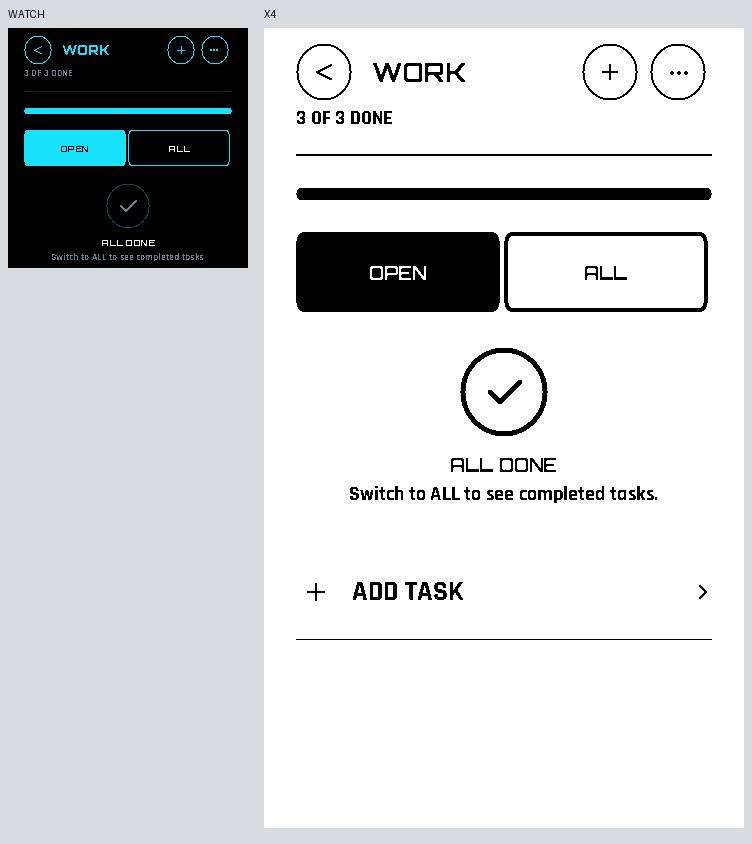
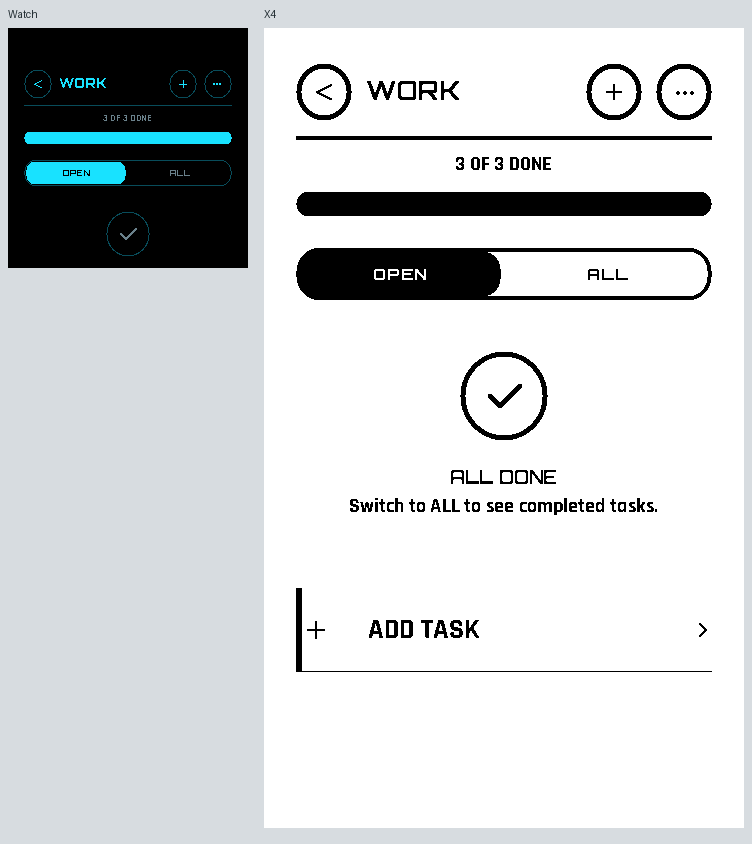
Use mockup controls and verify both tab states through the real Lists presenter

diff --git a/Apps/ListsScene.c b/Apps/ListsScene.c
@@ -23,6 +23,7 @@ static risc_scene_node_v1 *node(lists_ui *u,unsigned kind,const char *label,cons
 static risc_component_detail_v1 *detail(lists_ui *u,risc_scene_node_v1 *n){return &u->document.details[n->id-1];}
 static void header(lists_ui *u,const char *title,const char *sub,bool back){copy(u->document.routes[0].title,RISC_SCENE_LABEL,title);copy(u->document.subtitle,RISC_SCENE_TEXT,sub);u->document.routes[0].back_action=back?LA_BACK:0;}
 static risc_scene_node_v1 *button(lists_ui *u,const char *label,unsigned action,unsigned flags){risc_scene_node_v1 *n=node(u,RISC_SCENE_ACTION,label,"",action,0);n->flags=flags;return n;}
+static void chip(lists_ui *u,const char *label,unsigned action,unsigned ref){node(u,RISC_COMPONENT_CHIP,label,"",action,ref);}
 static void bounds(risc_scene_node_v1 *n,int value,int maximum){n->value=value;n->minimum=0;n->maximum=maximum;n->step=1;}
 static risc_scene_node_v1 *stepper(lists_ui *u,const char *label,const char *value,unsigned action,int selected,int maximum){risc_scene_node_v1 *n=node(u,RISC_COMPONENT_STEPPER,label,value,action,0);bounds(n,selected,maximum);return n;}
 static void segments(lists_ui *u,const char *choices,unsigned action,unsigned selected,unsigned count){risc_scene_node_v1 *n=node(u,RISC_COMPONENT_SEGMENTS,"","",action,0);bounds(n,(int)selected,(int)count-1);copy(detail(u,n)->choices,sizeof(detail(u,n)->choices),choices);}
@@ -56,11 +57,11 @@ void lists_ui_declare(lists_ui *u){
     case LISTS_VIEW:{header(u,view_name(u),"",true);risc_scene_node_v1 *n;
         if(l){n=node(u,RISC_COMPONENT_HEADER_ACTION,"OPTIONS","",LA_OPTIONS,0);detail(u,n)->symbol=RISC_SYMBOL_MORE;}
         n=node(u,RISC_COMPONENT_HEADER_ACTION,"ADD TASK","",LA_NEW_TASK,0);detail(u,n)->symbol=RISC_SYMBOL_PLUS;
-        unsigned done,total;counts(u,u->view,&done,&total);snprintf(d->subtitle,sizeof(d->subtitle),"%u OF %u DONE",done,total);progress(u,"",u->view);segments(u,"OPEN|ALL",LA_FILTER,u->filter,2);
+        unsigned done,total;counts(u,u->view,&done,&total);progress(u,"",u->view);segments(u,"OPEN|ALL",LA_FILTER,u->filter,2);
         unsigned order[LISTS_MAX_TASKS],count=0;
         for(unsigned i=0;i<u->data.task_count;i++)if(in_view(u,&u->data.tasks[i],u->view)&&(!u->data.tasks[i].done||u->filter||(l&&l->show_completed))){unsigned at=count++;while(at&&task_before(&u->data.tasks[i],&u->data.tasks[order[at-1]])){order[at]=order[at-1];--at;}order[at]=i;}
         for(unsigned i=0;i<count;i++){lists_task *item=&u->data.tasks[order[i]];char date[40],sub[72];due_text(u,item,date,sizeof(date));lists_list *owner=lists_find_list(&u->data,item->list_id);snprintf(sub,sizeof(sub),"%s%s%s%s%s",l?"":owner->name,l?"":" / ",date,item->repeat?" / ":"",item->repeat?repeats[item->repeat]:"");n=node(u,RISC_COMPONENT_CHECK_ROW,item->name,sub,LA_DONE,item->id);bounds(n,item->done,1);risc_component_detail_v1 *a=detail(u,n);a->secondary_action=LA_TASK;
-            if(lists_overdue(item,u->today,u->minute)){copy(a->badge,sizeof(a->badge),"OVERDUE");a->tone=RISC_TONE_WARNING;}else if(item->priority==2&&!item->done){copy(a->badge,sizeof(a->badge),"HIGH");a->tone=RISC_TONE_WARNING;}}
+            if(lists_overdue(item,u->today,u->minute)){copy(a->badge,sizeof(a->badge),"OVERDUE");a->tone=RISC_TONE_WARNING;}else if(item->priority==2&&!item->done){copy(a->badge,sizeof(a->badge),"HIGH");a->tone=RISC_TONE_ACCENT;}}
         if(!count)node(u,RISC_COMPONENT_EMPTY,total?"ALL DONE":"NOTHING HERE YET",total?"Switch to ALL to see completed tasks.":"Tap + to add the first task.",0,0);
         n=node(u,RISC_COMPONENT_ROW,"ADD TASK","",LA_NEW_TASK,0);detail(u,n)->symbol=RISC_SYMBOL_PLUS;break;}
     case LISTS_TASK:{header(u,t->name,"TASK",true);risc_scene_node_v1 *n=node(u,RISC_COMPONENT_CHECK_ROW,"DONE","",LA_DONE,t->id);bounds(n,t->done,1);
@@ -75,15 +76,15 @@ void lists_ui_declare(lists_ui *u){
         stepper(u,"REPEAT",repeats[t->repeat],LA_REPEAT,t->repeat,2);
         node(u,RISC_SCENE_TEXT_NODE,"REMINDERS","Shown while Lists is open; missed reminders appear on return.",0,0);
         n=node(u,RISC_COMPONENT_ROW,"DELETE TASK","",LA_DELETE_TASK,0);detail(u,n)->symbol=RISC_SYMBOL_DELETE;detail(u,n)->tone=RISC_TONE_DANGER;break;}
-    case LISTS_ADD_TASK:{header(u,"ADD TASK",view_name(u),true);unsigned set=suggestion_set(u);for(unsigned i=0;i<4;i++)button(u,suggestions[set][i],LA_SUGGEST_TASK,0),u->refs[d->node_count-1]=i;button(u,"CUSTOM...",LA_CUSTOM_TASK,RISC_SCENE_PRIMARY);break;}
+    case LISTS_ADD_TASK:{header(u,"ADD TASK",view_name(u),true);unsigned set=suggestion_set(u);for(unsigned i=0;i<4;i++)chip(u,suggestions[set][i],LA_SUGGEST_TASK,i);chip(u,"CUSTOM...",LA_CUSTOM_TASK,0);node(u,RISC_SCENE_TEXT_NODE,"","Pick a suggestion or type your own. Set a date and reminder afterwards.",0,0);break;}
     case LISTS_ADD_LIST:{header(u,"NEW LIST","PICK A SHAPE, THEN A NAME",true);risc_scene_node_v1 *n=node(u,RISC_COMPONENT_MARKERS,"SHAPE","",LA_MARKER,0);bounds(n,(int)u->marker,5);
-        for(unsigned i=0;i<sizeof(names)/sizeof(names[0]);i++){bool found=false;for(unsigned j=0;j<u->data.list_count;j++)if(!strcmp(names[i],u->data.lists[j].name))found=true;if(!found){button(u,names[i],LA_SUGGEST_LIST,0);u->refs[d->node_count-1]=i;}}
-        button(u,"CUSTOM...",LA_CUSTOM_LIST,RISC_SCENE_PRIMARY);break;}
+        for(unsigned i=0;i<sizeof(names)/sizeof(names[0]);i++){bool found=false;for(unsigned j=0;j<u->data.list_count;j++)if(!strcmp(names[i],u->data.lists[j].name))found=true;if(!found)chip(u,names[i],LA_SUGGEST_LIST,i);}
+        chip(u,"CUSTOM...",LA_CUSTOM_LIST,0);break;}
     case LISTS_OPTIONS:{if(!l){u->page=LISTS_HOME;lists_ui_declare(u);return;}header(u,l->name,"LIST OPTIONS",true);node(u,RISC_COMPONENT_ROW,"RENAME","",LA_RENAME_LIST,0);
         risc_scene_node_v1 *n=node(u,RISC_COMPONENT_SWITCH,"SHOW COMPLETED","",LA_SHOW_DONE,0);bounds(n,l->show_completed,1);button(u,"CLEAR COMPLETED",LA_CLEAR_DONE,0);button(u,"DELETE LIST",LA_DELETE_LIST,RISC_SCENE_DESTRUCTIVE);break;}
     case LISTS_NAME_EDIT:{header(u,"NAME",u->edit_kind==LA_CUSTOM_LIST||u->edit_kind==LA_RENAME_LIST?"LIST NAME":"TASK NAME",true);risc_scene_node_v1 *n=node(u,RISC_SCENE_KEYBOARD_NODE,"NAME",u->draft,LA_KEY,0);bounds(n,(int)u->key_layer,3);n->target=LISTS_NAME-1;break;}
     case LISTS_TIME:{header(u,"SET TIME",t->name,true);risc_scene_node_v1 *n=node(u,RISC_COMPONENT_TIME_PICKER,"TIME","",LA_TIME_VALUE,0);bounds(n,(int)u->time_value,1439);button(u,"SET TIME",LA_SET_TIME,RISC_SCENE_PRIMARY);button(u,"NO TIME",LA_NO_TIME,0);break;}
-    case LISTS_CONFIRM:{header(u,"ARE YOU SURE?","",true);d->flags=RISC_COMPONENTS_CONFIRM;d->cancel_action=LA_KEEP;const char *title=u->confirm_kind==LA_DELETE_TASK?"DELETE TASK?":u->confirm_kind==LA_DELETE_LIST?"DELETE LIST?":"CLEAR COMPLETED?";
+    case LISTS_CONFIRM:{header(u,"CONFIRM","",true);d->flags=RISC_COMPONENTS_CONFIRM;d->cancel_action=LA_KEEP;const char *title=u->confirm_kind==LA_DELETE_TASK?"DELETE TASK?":u->confirm_kind==LA_DELETE_LIST?"DELETE LIST?":"CLEAR COMPLETED?";
         node(u,RISC_SCENE_TEXT_NODE,title,u->confirm_kind==LA_DELETE_LIST?"The list and all its tasks will be removed.":"This removes the selected saved items.",0,0);button(u,"KEEP",LA_KEEP,0);button(u,"DELETE",LA_CONFIRM,RISC_SCENE_DESTRUCTIVE);break;}
     case LISTS_ALERT:{lists_task *a=lists_find_task(&u->data,u->alert);if(!a){u->page=u->parent;lists_ui_declare(u);return;}header(u,"REMINDER","",true);d->flags=RISC_COMPONENTS_ALERT;d->cancel_action=LA_DISMISS;char date[40];due_text(u,a,date,sizeof(date));node(u,RISC_SCENE_TEXT_NODE,a->name,date,0,0);button(u,"DONE",LA_ALERT_DONE,RISC_SCENE_PRIMARY);button(u,"+10 MIN",LA_SNOOZE,0);button(u,"DISMISS",LA_DISMISS,0);break;}
     default:u->page=LISTS_HOME;lists_ui_declare(u);break;

diff --git a/test/lists/render_test.c b/test/lists/render_test.c
@@ -8,6 +8,7 @@
 static lists_ui ui;
 static const risc_scene_components_api_v1 *components;
 static void update_ui(void){lists_ui_declare(&ui);assert(components->update(NULL,session,&ui.document)==0);}
+static unsigned task_rows(void){unsigned count=0;for(unsigned i=0;i<ui.document.node_count;i++)count+=ui.document.nodes[i].kind==RISC_COMPONENT_CHECK_ROW;return count;}
 static void fixture(void){
  lists_ui_init(&ui);ui.today=lists_day(2026,10,10);ui.minute=660;uint32_t work,grocery,home,id;
  assert(!lists_add_list(&ui.data,"GROCERIES",0,&grocery));assert(!lists_add_list(&ui.data,"WORK",1,&work));assert(!lists_add_list(&ui.data,"HOME",2,&home));
@@ -33,18 +34,30 @@ int main(int argc,char **argv){
  startup();assert(api->close(NULL,session)==0);components=risc_scene_components_get_v1(api);assert(components);fixture();lists_ui_declare(&ui);
  expected_intent=RISC_DISPLAY_PRESENT_LOW_LATENCY;assert(!components->open(NULL,&ui.document,NULL,&session));frame(argv[2],"home");
  ui.page=LISTS_VIEW;update_ui();frame(argv[2],"list");
- unsigned scale=w==800?2:1,first_y=(64+34+(scale==2?48:44)+(scale==2?24:22))*scale;
+ unsigned scale=w==800?2:1,header=scale==2?56:78,first_y=(header+46+38+(scale==2?21:20))*scale;
  touch_tap(25*scale,first_y);risc_scene_event_v1 e;assert(tick(&e)==RISC_SCENE_OK&&e.action==LA_DONE&&e.kind==RISC_SCENE_VALUE_EVENT);assert(lists_ui_event(&ui,&e));update_ui();
+ /* OPEN/ALL swaps this list in place while a refresh is outstanding. */
+ unsigned open_rows=task_rows();allow_complete=false;begin_frame();
+ touch_tap(172*scale,(header+46+21)*scale);assert(tick(&e)==RISC_SCENE_OK&&e.action==LA_FILTER&&e.value==1);assert(!lists_ui_event(&ui,&e));update_ui();assert(task_rows()==open_rows+1&&ui.page==LISTS_VIEW);
+ allow_complete=true;ui.notice[0]=0;update_ui();frame(argv[2],"list-all");
+ touch_tap(68*scale,(header+46+21)*scale);assert(tick(&e)==RISC_SCENE_OK&&e.action==LA_FILTER&&e.value==0);assert(!lists_ui_event(&ui,&e));update_ui();assert(task_rows()==open_rows);
  /* Details target remains distinct after the completed row leaves OPEN. */
  touch_tap(90*scale,first_y);assert(tick(&e)==RISC_SCENE_OK&&e.action==LA_TASK);assert(!lists_ui_event(&ui,&e)&&ui.page==LISTS_TASK);update_ui();frame(argv[2],"task");
  ui.page=LISTS_TIME;ui.time_value=905;update_ui();frame(argv[2],"time");
  ui.page=LISTS_NAME_EDIT;ui.edit_kind=LA_RENAME_TASK;strcpy(ui.draft,"WEEKLY REPORT");update_ui();frame(argv[2],"keyboard");
  ui.page=LISTS_CONFIRM;ui.confirm_kind=LA_DELETE_TASK;update_ui();frame(argv[2],"confirm");
  risc_scene_navigation_v1 focus={.struct_size=sizeof(focus)};uint32_t flags;assert(!api->snapshot(NULL,session,&focus,&flags));assert(focus.focus[0]&&ui.document.nodes[focus.focus[0]-1].action==LA_KEEP);
+ unsigned middle=scale==2?200:120;
+ touch_tap(120*scale,middle*scale);assert(tick(&e)==RISC_SCENE_IDLE);
+ touch_tap(75*scale,(middle+44)*scale);assert(tick(&e)==RISC_SCENE_OK&&e.action==LA_KEEP);
+ touch_tap(5*scale,5*scale);assert(tick(&e)==RISC_SCENE_OK&&e.action==LA_KEEP);
  ui.page=LISTS_ALERT;ui.alert=ui.task;update_ui();frame(argv[2],"alert");
+ ui.page=LISTS_OPTIONS;update_ui();frame(argv[2],"options");
+ ui.page=LISTS_ADD_TASK;update_ui();frame(argv[2],"new-task");
  ui.page=LISTS_ADD_LIST;update_ui();frame(argv[2],"new-list");
+ touch_tap(48*scale,((scale==2?60:84)+73)*scale);assert(tick(&e)==RISC_SCENE_OK&&e.action==LA_SUGGEST_LIST);
  /* Slow refresh never blocks a fresh control target. */
- allow_complete=false;update_ui();begin_frame();touch_tap(40*scale,(64+20)*scale);assert(tick(&e)==RISC_SCENE_OK&&e.action==LA_MARKER);assert(!lists_ui_event(&ui,&e));update_ui();
+ allow_complete=false;update_ui();begin_frame();touch_tap(60*scale,((scale==2?60:84)+25)*scale);assert(tick(&e)==RISC_SCENE_OK&&e.action==LA_MARKER&&e.value==1);assert(!lists_ui_event(&ui,&e));update_ui();
  /* Invalid component documents are rejected without losing the prior route. */
  risc_components_document_v1 bad=ui.document;bad.revision++;bad.nodes[0].maximum=7;assert(components->update(NULL,session,&bad)==RISC_SCENE_INVALID);
  allow_complete=true;settle();

diff --git a/scripts/render_lists_previews.py b/scripts/render_lists_previews.py
@@ -1,0 +1,42 @@
+#!/usr/bin/env python3
+"""Make review sheets from the actual C presenter's PPM captures (requires Pillow)."""
+import argparse
+from pathlib import Path
+from PIL import Image, ImageDraw
+
+def render(frames, output):
+    output.mkdir(parents=True, exist_ok=True)
+    names = ['home', 'list', 'task', 'time', 'keyboard', 'confirm', 'alert', 'new-list']
+    for profile, name, height in [('watch', 'watch', 240), ('paper', 'x4', 400)]:
+        sheet = Image.new('RGB', (1056, 2 * (height + 28) + 32), '#d7dce0')
+        draw = ImageDraw.Draw(sheet)
+        for index, screen in enumerate(names):
+            x, y = 16 + index % 4 * 260, 16 + index // 4 * (height + 28)
+            draw.text((x, y), screen.upper(), fill='#202b30')
+            frame = Image.open(frames / f'{profile}-{screen}.ppm')
+            sheet.paste(frame.resize((240, height), Image.Resampling.NEAREST), (x, y + 20))
+        sheet.save(output / f'{name}.png', optimize=True)
+    sheet = Image.new('RGB', (752, 844), '#d7dce0')
+    draw = ImageDraw.Draw(sheet)
+    for profile, x, title in [('watch', 8, 'Watch'), ('paper', 264, 'X4')]:
+        draw.text((x, 8), title, fill='#202b30')
+        sheet.paste(Image.open(frames / f'{profile}-completed.ppm'), (x, 28))
+    sheet.save(output / 'completed.png', optimize=True)
+    sheet = Image.new('RGB', (1024, 444), '#d7dce0')
+    draw = ImageDraw.Draw(sheet)
+    for index, (profile, screen, title) in enumerate([
+        ('watch', 'list', 'Watch / OPEN'), ('watch', 'list-all', 'Watch / ALL'),
+        ('paper', 'list', 'X4 / OPEN'), ('paper', 'list-all', 'X4 / ALL'),
+    ]):
+        draw.text((16 + index * 252, 8), title, fill='#202b30')
+        frame = Image.open(frames / f'{profile}-{screen}.ppm')
+        height = 240 if profile == 'watch' else 400
+        sheet.paste(frame.resize((240, height), Image.Resampling.NEAREST), (16 + index * 252, 28))
+    sheet.save(output / 'tabs.png', optimize=True)
+
+if __name__ == '__main__':
+    parser = argparse.ArgumentParser(description=__doc__)
+    parser.add_argument('--frames', type=Path, required=True)
+    parser.add_argument('--output', type=Path, default=Path(__file__).resolve().parents[1] / 'docs/lists')
+    args = parser.parse_args()
+    render(args.frames, args.output)

diff --git a/scripts/test_lists_scene.py b/scripts/test_lists_scene.py
@@ -2,11 +2,26 @@
 import argparse,importlib.util,os,subprocess,tempfile
 from pathlib import Path
 ROOT=Path(__file__).resolve().parents[1]
+def verify_tabs(path,scale,selected):
+ # Mockup contract: a continuous outer rail; only the inset selected segment
+ # is filled. An unselected tab must not have its own button outline.
+ header,dimensions,maximum,pixels=path.read_bytes().split(b'\n',3)
+ width,height=map(int,dimensions.split());assert header==b'P6' and maximum==b'255'
+ top=(56 if scale==2 else 78)+46+8
+ bg=b'\xff'*3 if scale==2 else b'\0'*3
+ def pixel(x,y):
+  at=3*(y*scale*width+x*scale);return pixels[at:at+3]
+ assert pixel(120,top)!=bg, 'Tabs need one continuous outer rail'
+ assert pixel(119,top+13)==bg, 'Tab selection needs an inset gap'
+ for tab,x in enumerate([68,172]):
+  assert (pixel(x,top+4)!=bg)==(tab==selected), 'Only the selected tab is filled'
+ assert pixel(220 if selected==0 else 19,top+13)==bg, 'Inactive tab is not a separate outlined button'
+
 def verify_completed(path,scale):
  # Reference empty state: 44 logical px circle around the completion check.
  header,dimensions,maximum,pixels=path.read_bytes().split(b'\n',3)
  width,height=map(int,dimensions.split());assert header==b'P6' and maximum==b'255'
- cx=120*scale;cy=(64+34+(48 if scale==2 else 44)+36)*scale
+ cx=120*scale;cy=((56 if scale==2 else 78)+46+38+44)*scale
  bg=b'\xff'*3 if scale==2 else b'\0'*3
  def pixel(x,y):
   assert 0<=x<width and 0<=y<height
@@ -34,5 +49,7 @@ def run(runtime,system,output=None):
    for profile,scale in [('watch',1),('paper',2)]:
     subprocess.run([str(tmp/'render'),profile,str(output)],check=True)
     verify_completed(output/(profile+'-completed.ppm'),scale)
+    verify_tabs(output/(profile+'-list.ppm'),scale,0)
+    verify_tabs(output/(profile+'-list-all.ppm'),scale,1)
 if __name__=='__main__':
  p=argparse.ArgumentParser();p.add_argument('--runtime',type=Path,required=True);p.add_argument('--system-apps',type=Path,required=True);p.add_argument('--frames',type=Path);a=p.parse_args();run(a.runtime.resolve(),a.system_apps.resolve(),a.frames)

diff --git a/docs/LISTS_SCENE.md b/docs/LISTS_SCENE.md
@@ -9,12 +9,34 @@ resident-shell checkpoints. The same compiled `lists.elf` serves both products.
 ![Watch screens](lists/watch.png)
 ![X4 screens](lists/x4.png)
 ![Completed state on Watch and X4](lists/completed.png)
+![OPEN and ALL tabs on both profiles](lists/tabs.png)
 
 These images are generated by the actual C presenter with fixture data, in this
 order: Home, list, task, time, keyboard, confirmation, reminder, new list. Fixture
 data is never seeded into the installed application. The additional completed
 capture verifies the mockup's 44px circle and 20px check. Confirmation/reminder
-copy uses explanatory text instead of the completed-state component.
+copy uses explanatory text instead of the completed-state component. The
+separate tab sheet shows both selections, including a completed task in ALL.
+The fixture also captures list options and task suggestions.
+
+The renderer follows the attached mockup
+`Lists (To-Do) — NOVA-7 watch + e-ink(1).html` for the control hierarchy:
+
+| Mockup element | Shared component |
+| --- | --- |
+| OPEN / ALL and priority tabs | Single rounded rail with inset selected segment and 8px labels |
+| List, date, reminder and repeat selectors | Inline label, value and minus/plus stepper |
+| Suggested names | Wrapping, content-sized chips |
+| List shapes | One row of six selectable shapes |
+| Show completed | Compact OFF/ON capsule |
+| Confirmation and reminder | Centered dialog with horizontal action buttons |
+| Task completion | Checkbox with separate detail target; trailing checkbox in task details |
+| Time | Watch wheels; inverted value cards and +/- controls on paper |
+
+The existing shared native keyboard remains the text-entry surface; its extra
+editing/layer controls are intentionally retained. These binary/font-raster
+captures are implementation renders, not browser screenshots or a claim of
+pixel identity with browser font antialiasing.
 
 ## Behavior
 
@@ -58,7 +80,7 @@ reminder detection while leaving ordinary undated lists usable.
 Use a Runtime SDK that includes app-data, the resident-shell contract and platform
 realtime. CI uses public Runtime commit
 `a9587bec00015ad56c302192a8359b6d70cde01a` and System commit
-`a88eaf5d3b2c3af99b135f35b22ea5ae61add6e1`. The `Lists shared scene build`
+`ad32ecd8ae06775770f66918402c060860b36805`. The `Lists shared scene build`
 workflow tests both renders and publishes the app/providers as build artifacts.
 
 ```sh
@@ -73,7 +95,12 @@ hashes, then checks Xtensa ELF structure, imports and exports. The tests run the
 model, storage protocol, real application lifecycle and actual shared renderer.
 They cover every civil day in range, recurrence idempotence and full capacity,
 byte corruption, failed/uncertain saves, editing/reminder flows, separate row
-hit targets during a pending frame, and close/storage context loss. System's
+hit targets during a pending frame, tab switching without changing routes,
+disabled/gap targets, modal inside/outside cancellation, wrapped chip intents,
+and close/storage context loss. Pixel checks guard both tab selections and the
+completed circle on both profiles. Run
+`python scripts/render_lists_previews.py --frames ../build/frames` to regenerate
+the review sheets from the C captures (requires Pillow). System's
 179 legacy scene cases also pass with the extended presenter.
 
 Profile preservation tests use frozen SHA-256 values from public checkpoint
